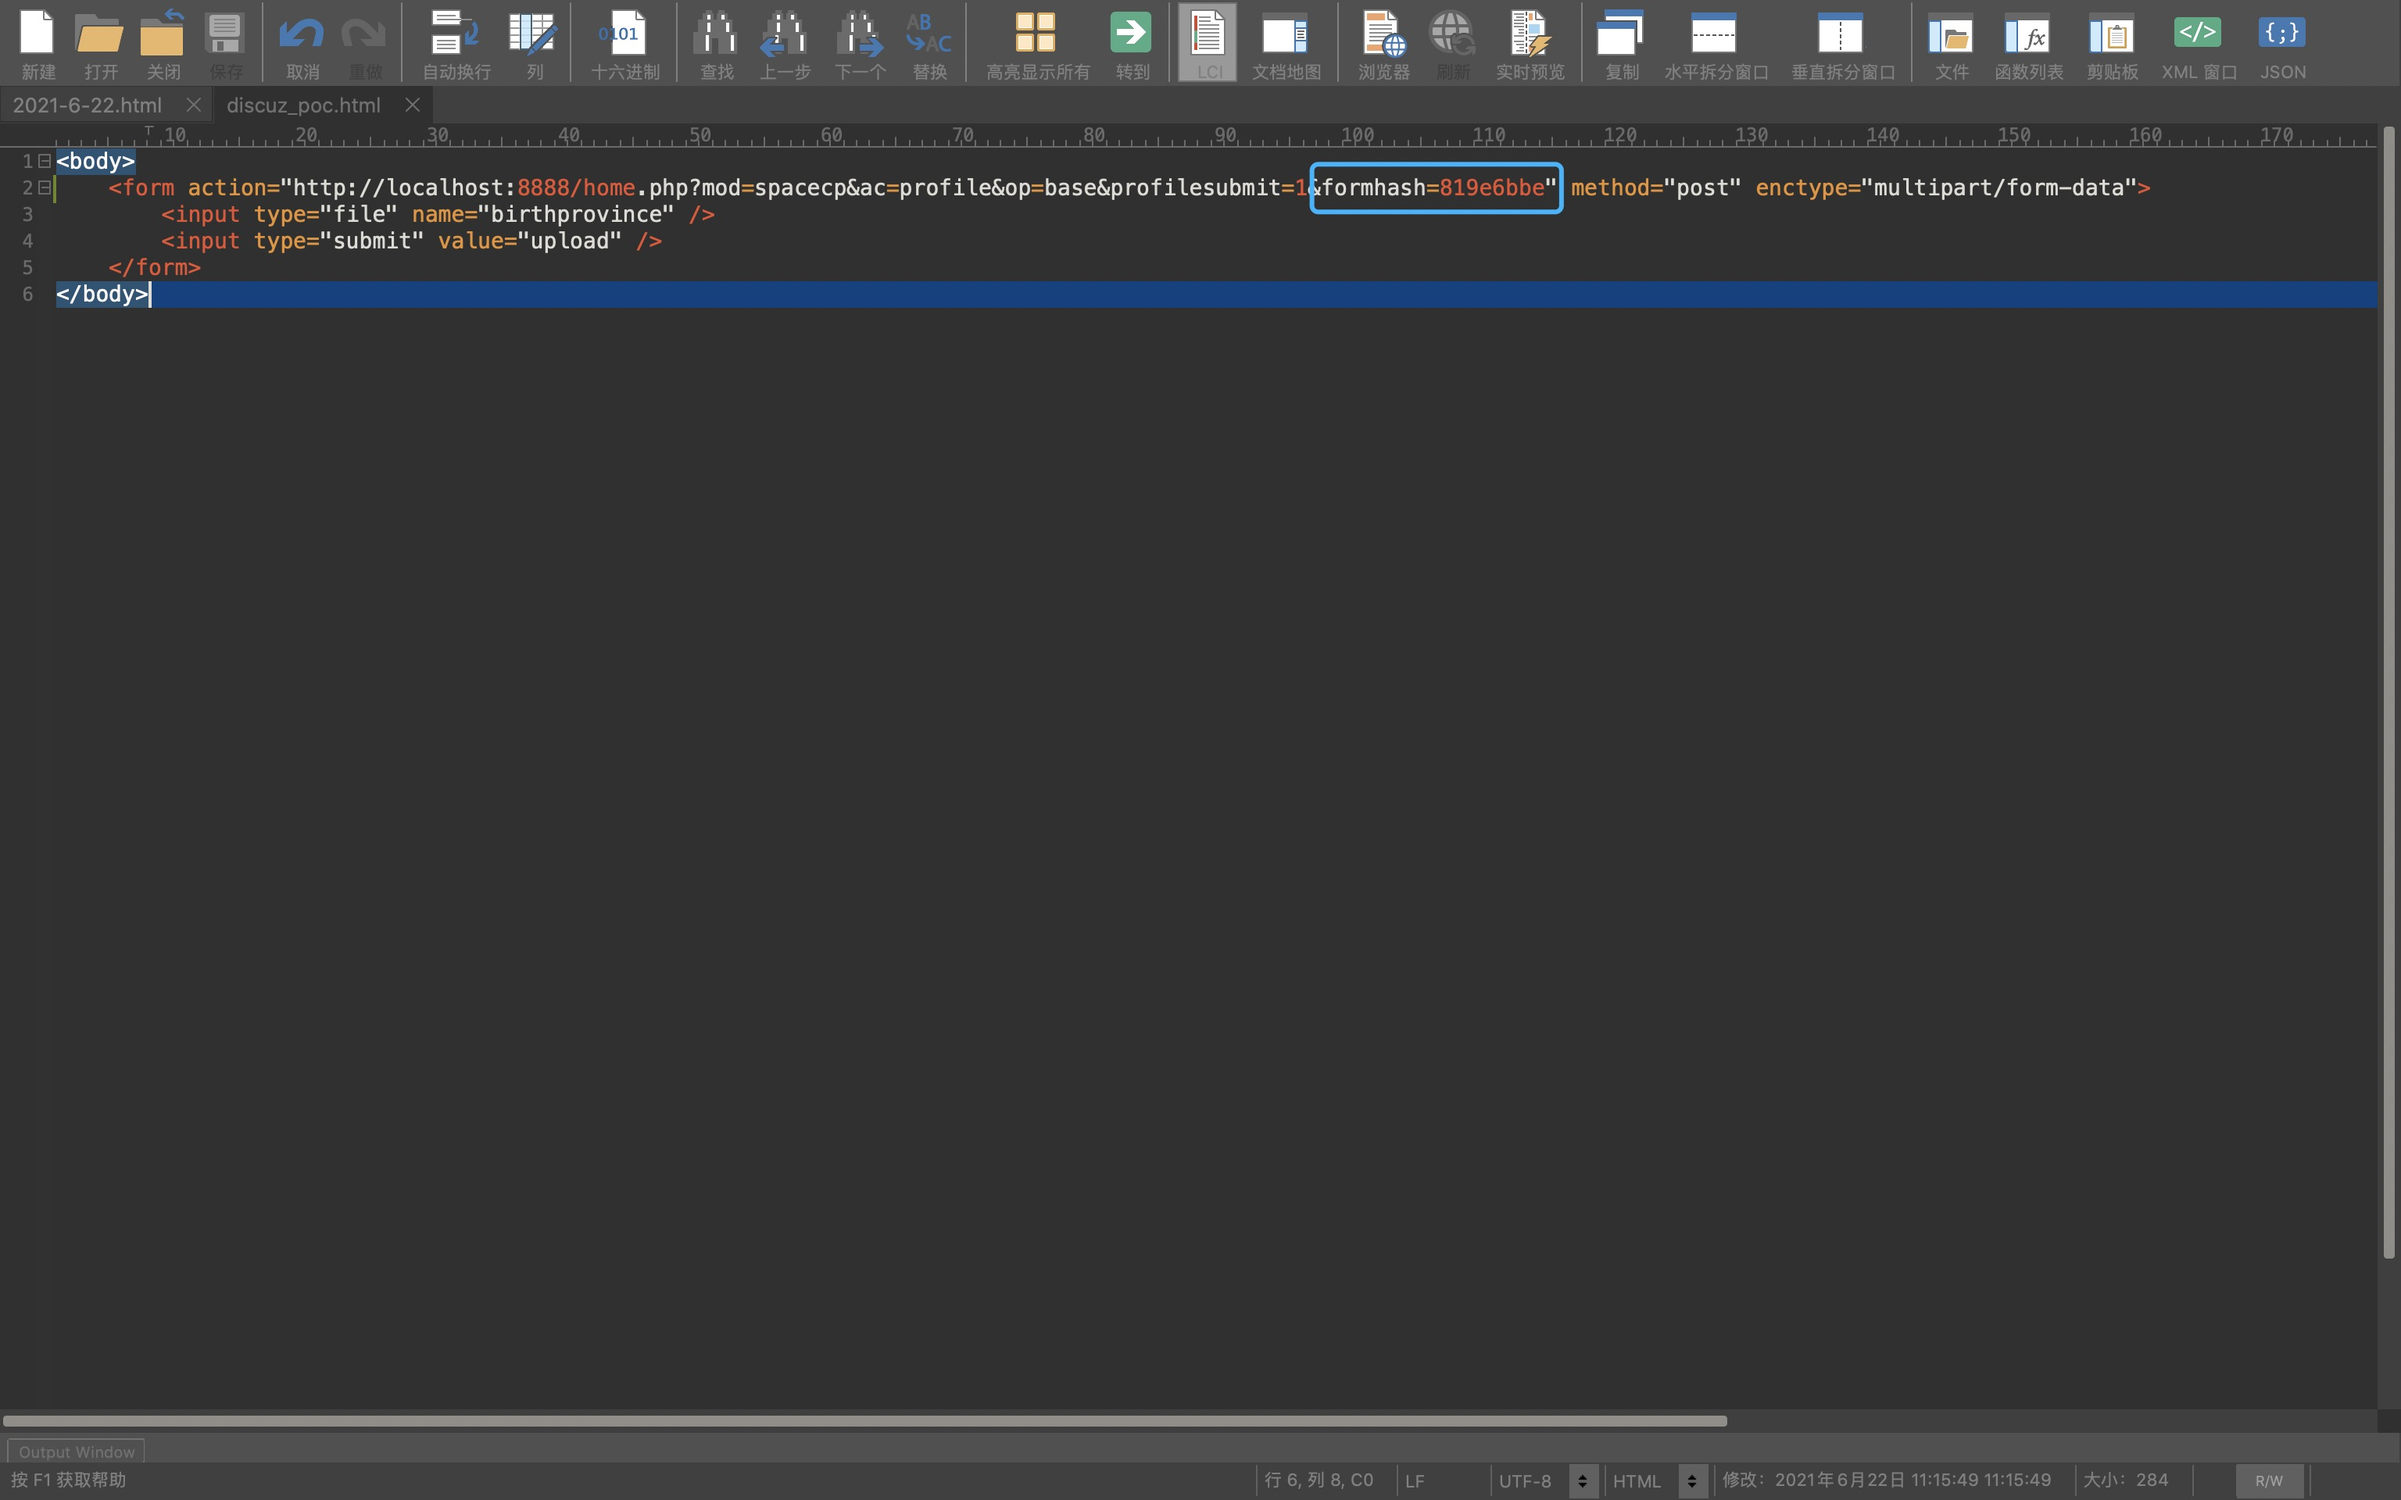
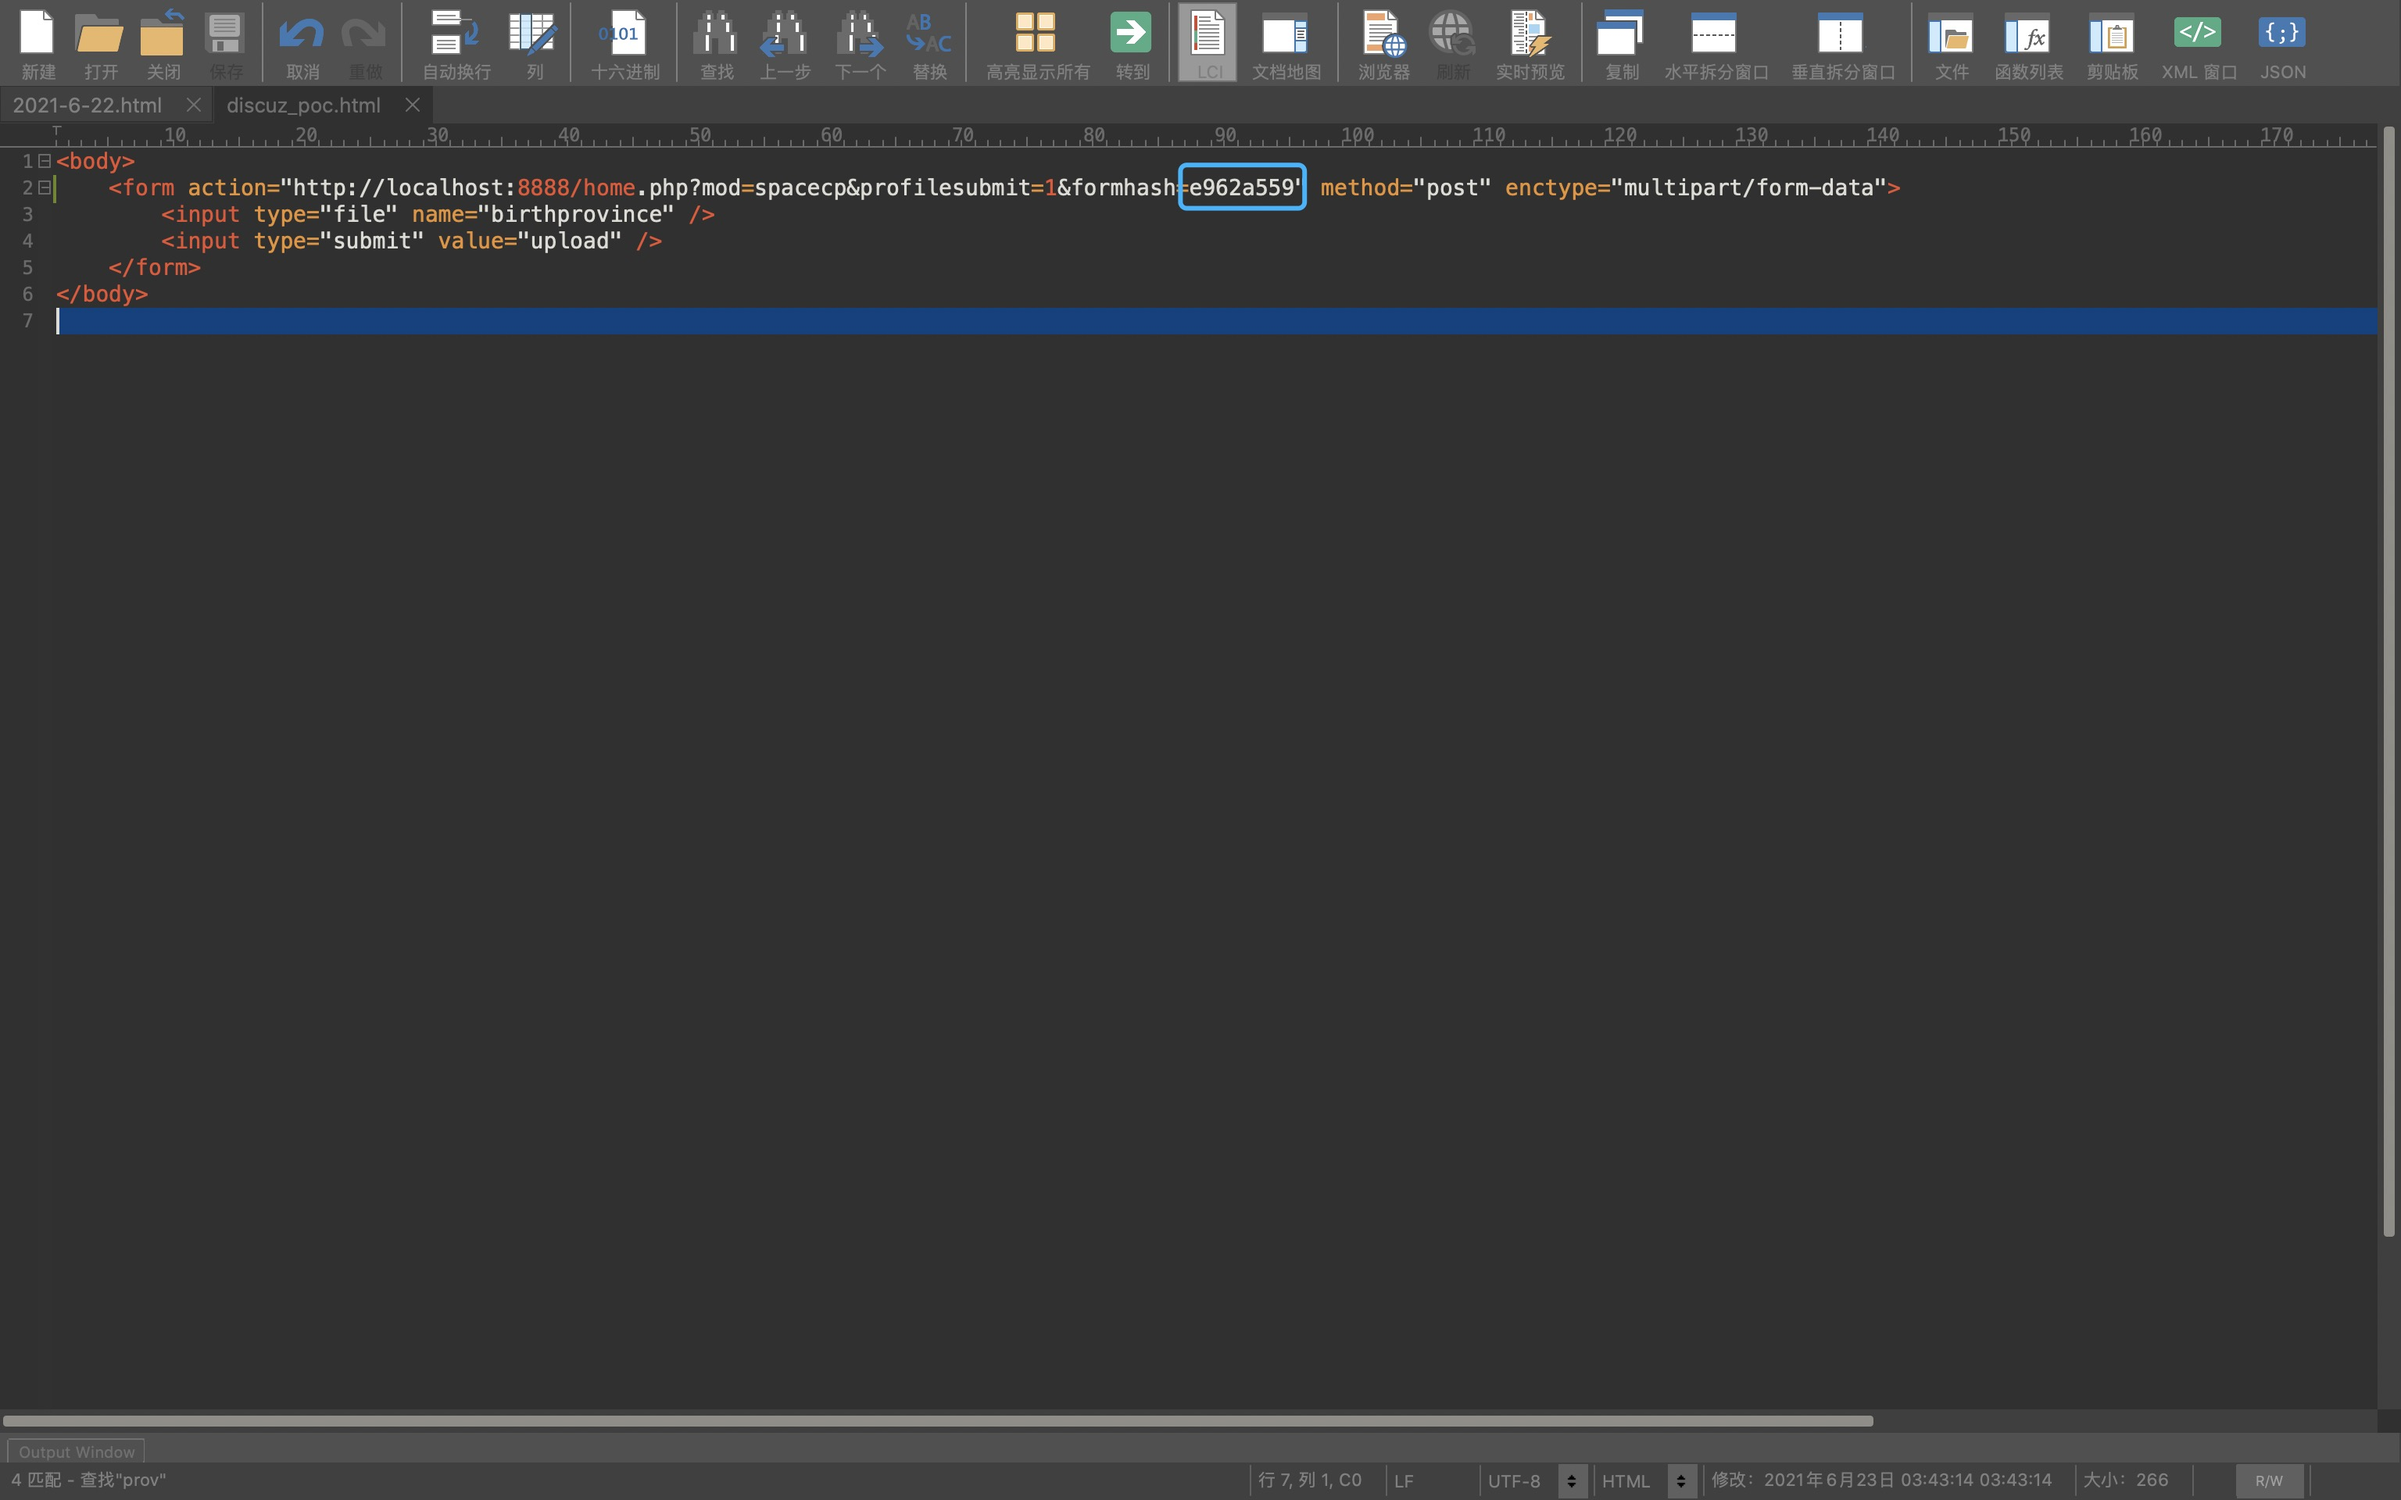
blog

diff --git a/blog/2021-6-22.html b/blog/2021-6-22.html
@@ -66,7 +66,7 @@
             <div class="col-lg-8 col-md-10 mx-auto">
                 <div class="post-heading">
                     <h1>discuz! x3.4 漏洞分析</h1>
-                    <h2 class="subheading">从任意文件删除漏洞到getshell</h2>
+                    <h2 class="subheading">从任意文件删除漏洞到苛刻的getshell，后台SQL注入</h2>
                     <span class="meta">Posted by
               <a href="#">SEVENTEEN</a>
               on June 22, 2021</span>
@@ -127,7 +127,7 @@
                 <div>
                 	
                 	<pre class='hljs'><code>&lt;body&gt;
-    &lt;form action=<span class="hljs-string">"http://[网站域名]/home.php?mod=spacecp&amp;ac=profile&amp;op=base&amp;profilesubmit=1&amp;formhash=[刚刚得到的formhash]"</span> <span class="hljs-keyword">method</span>=<span class="hljs-string">"post"</span> enctype=<span class="hljs-string">"multipart/form-data"</span>&gt;
+    &lt;form action=<span class="hljs-string">"http://[网站域名]/home.php?mod=spacecp&amp;profilesubmit=1&amp;formhash=[刚刚得到的formhash]"</span> <span class="hljs-keyword">method</span>=<span class="hljs-string">"post"</span> enctype=<span class="hljs-string">"multipart/form-data"</span>&gt;
         &lt;input <span class="hljs-keyword">type</span>=<span class="hljs-string">"file"</span> name=<span class="hljs-string">"birthprovince"</span> /&gt;
         &lt;input <span class="hljs-keyword">type</span>=<span class="hljs-string">"submit"</span> value=<span class="hljs-string">"upload"</span> /&gt;
     &lt;/form&gt;
@@ -142,30 +142,165 @@
                     <img class="img-fluid" src="../img/2021-6-22/pop-5.jpg" alt="">
                 </a>
                 
-                <p>&nbsp;&nbsp;&nbsp;可以看到uc_server/data目录下的install.lock已经被删除啦！</p>
+                <p>&nbsp;&nbsp;&nbsp;可以看到data目录下的install.lock已经被删除啦！</p>
 
                 <a href="#">
                     <img class="img-fluid" src="../img/2021-6-22/pop-6.jpg" alt="">
                 </a>
                 
-                <p>&nbsp;&nbsp;&nbsp;来看一下在源码里面到底发生了什么。</p>
+                <p>&nbsp;&nbsp;&nbsp;来看一下在源码里面到底发生了什么。首先来到source/include/spacecp/spacecp_profile.php，这里有个submitcheck('profilesubit')需要绕过。</p>
 
                 <a href="#">
                     <img class="img-fluid" src="../img/2021-6-22/pop-7.jpg" alt="">
                 </a>
                 
+                <p>&nbsp;&nbsp;&nbsp;进来submitcheck()函数之后会进入getgpc()函数，这里需要通过get对profilesubmit传参，var才能获取到其它的get参数。
+                	这就解释了为什么上传文件那个payload中的url带有profilesubmit参数。</p>
+
+                <a href="#">
+                    <img class="img-fluid" src="../img/2021-6-22/profilesubmit.jpg" alt="">
+                </a>
+                <span class="caption text-muted">令profilesubmit=1</span>
+                
+                <p>&nbsp;&nbsp;&nbsp;接着，回调submitcheck()函数，可以看到要满足if的条件才能返回一个TRUE。
+                	可以看到这里对formhash进行了校验，所以在刚刚上传文件那个payload中的url带上从前端获取的formhash。</p>
+
+                <a href="#">
+                    <img class="img-fluid" src="../img/2021-6-22/pop-8.jpg" alt="">
+                </a>
+                <span class="caption text-muted">令formhash为前端获取的formhash。</span>
+                
+                <p>&nbsp;&nbsp;&nbsp;这个地方的unlink是补丁前的利用点，补丁添加了formtype的判断，
+                	导致这个unlink不可以利用。不过，下面还有一个unlink可以利用。</p>
+
+                <a href="#">
+                    <img class="img-fluid" src="../img/2021-6-22/pop-9.jpg" alt="">
+                </a>       
                 
                 
-                
-                
-                
-                
+                <p>&nbsp;&nbsp;&nbsp;上传文件后会进入这个if语句中，先是if判断是否上传失败，成功的话往if里面走。</p>
+
+                <a href="#">
+                    <img class="img-fluid" src="../img/2021-6-22/pop-13.jpg" alt="">
+                </a>
                 
 
-								<h2 class="section-heading">后台getshell漏洞</h2>
+                <p>&nbsp;&nbsp;&nbsp;接着，这里对更新前的个人资料做unlink处理，这就解释了为什么要在个人设置中找到一个可控的出生地(birthprovine)，
+                	并且把它赋值为要删除文件的相对路径。所以，这里删除的就是我们一开始在burpsuite中构造的出生地(birthprovince)。</p>
+
+                <a href="#">
+                    <img class="img-fluid" src="../img/2021-6-22/pop-15.jpg" alt="">
+                </a>
+                          
+                
+                <p>&nbsp;&nbsp;&nbsp;然后在这里开始对数据库内容进行update处理，构造update的sql语句。</p>
+
+                <a href="#">
+                    <img class="img-fluid" src="../img/2021-6-22/pop-16.jpg" alt="">
+                </a>
+                
+                <p>&nbsp;&nbsp;&nbsp;执行update的sql语句，将个人资料出生地变为照片的相对路径。</p>
+
+                <a href="#">
+                    <img class="img-fluid" src="../img/2021-6-22/pop-17.jpg" alt="">
+                </a>
+                
+       
+
+								<h2 class="section-heading">重装getshell漏洞</h2>
 								
-								<p>&nbsp;&nbsp;&nbsp;访问url，进入重装页面。不过这里不知道数据库的账号密码，实战中可以尝试下root或者123456这类弱密码。
-									实在不行的话，牺牲一下自己的vps，远程连接自己的数据库。(毕竟拿shell血赚不亏)</p>
+								<p>&nbsp;&nbsp;&nbsp;访问/install/index.php，进入重装页面，将数据表前缀改为x');phpinfo();('。不过这里不知道数据库的账号密码，实战中可以尝试下root或者123456这类弱密码。
+									实在不行的话，牺牲一下自己的vps，远程连接自己的数据库(毕竟拿shell血赚不亏)。</p>
+								<p>&nbsp;&nbsp;&nbsp;不过这里有一个前提条件需要注意，目标网站需要没登录过后台。因为登录后台后会把install/index.php删除导致不能重装，
+									所以拿到站，最好先访问/install/index.php，看看能不能通过重装getshell再决定要不要打payload。</p>	
+									
+
+									
+								<a href="#">
+                    <img class="img-fluid" src="../img/2021-6-22/pop-2-2.jpg" alt="">
+                </a>
+                
+                <p>&nbsp;&nbsp;&nbsp;访问config/config_ucenter.php就可以执行插入的payload了。</p>
+									
+								<a href="#">
+                    <img class="img-fluid" src="../img/2021-6-22/pop-2-3.jpg" alt="">
+                </a>
+                
+                <p>&nbsp;&nbsp;&nbsp;审计一下源码，可以看到进入了203行的elseif分支。</p>
+									
+								<a href="#">
+                    <img class="img-fluid" src="../img/2021-6-22/pop-2-4.jpg" alt="">
+                </a>
+                
+                <p>&nbsp;&nbsp;&nbsp;接着，进入install_uc_server()函数。</p>
+									
+								<a href="#">
+                    <img class="img-fluid" src="../img/2021-6-22/pop-2-5.jpg" alt="">
+                </a>
+                
+                <p>&nbsp;&nbsp;&nbsp;调用save_uc_config()函数保存配置。</p>
+									
+								<a href="#">
+                    <img class="img-fluid" src="../img/2021-6-22/pop-2-6.jpg" alt="">
+                </a>
+                
+                <p>&nbsp;&nbsp;&nbsp;可以看到这里没有任何的过滤就直接写入php配置文件，所以只要闭合')即可代码注入。</p>
+									
+								<a href="#">
+                    <img class="img-fluid" src="../img/2021-6-22/pop-2-7.jpg" alt="">
+                </a>
+                
+                <h2 class="section-heading">后台SQL注入</h2>
+                
+                <p>&nbsp;&nbsp;&nbsp;注入点在后台的UCenter应用id处。</p>
+									
+								<a href="#">
+                    <img class="img-fluid" src="../img/2021-6-22/pop-3-1.jpg" alt="">
+                </a>
+                
+                <p>&nbsp;&nbsp;&nbsp;构造报错注入payload，页面成功回显。</p>
+									
+								<a href="#">
+                    <img class="img-fluid" src="../img/2021-6-22/pop-3-2.jpg" alt="">
+                </a>
+                
+                <p>&nbsp;&nbsp;&nbsp;来到后台设置的代码段。</p>
+									
+								<a href="#">
+                    <img class="img-fluid" src="../img/2021-6-22/pop-3-3.jpg" alt="">
+                </a>
+                
+                
+                <p>&nbsp;&nbsp;&nbsp;可以看到这里对输入的id进行了addslashes()转义处理。</p>
+									
+								<a href="#">
+                    <img class="img-fluid" src="../img/2021-6-22/pop-3-5.jpg" alt="">
+                </a>
+                
+                
+                <p>&nbsp;&nbsp;&nbsp;这里读取配置文件，对配置缓存进行了更新。
+                	而问题在于此处读取时没有再次转义，转义符号在读取的时候已被解析，造成了二次注入。</p>
+									
+								<a href="#">
+                    <img class="img-fluid" src="../img/2021-6-22/pop-3-6.jpg" alt="">
+                </a>
+                
+                <p>&nbsp;&nbsp;&nbsp;note_exists()函数通过result_first()函数将配置内容select出来。</p>
+									
+								<a href="#">
+                    <img class="img-fluid" src="../img/2021-6-22/pop-3-7.jpg" alt="">
+                </a>
+                
+                <p>&nbsp;&nbsp;&nbsp;从result_first()函数执行的sql语句，也可以看到转义符号已经被解析，构造了SQL注入的payload。</p>
+									
+								<a href="#">
+                    <img class="img-fluid" src="../img/2021-6-22/pop-3-8.jpg" alt="">
+                </a>
+
+
+
+
+
 
 
 

diff --git a/index.html b/index.html
@@ -111,7 +111,7 @@
               discuz! x3.4 漏洞分析
             </h2>
             <h3 class="post-subtitle">
-              从任意文件删除漏洞到getshell
+              从任意文件删除漏洞到苛刻的getshell，后台SQL注入
             </h3>
           </a>
           <p class="post-meta">Posted by
